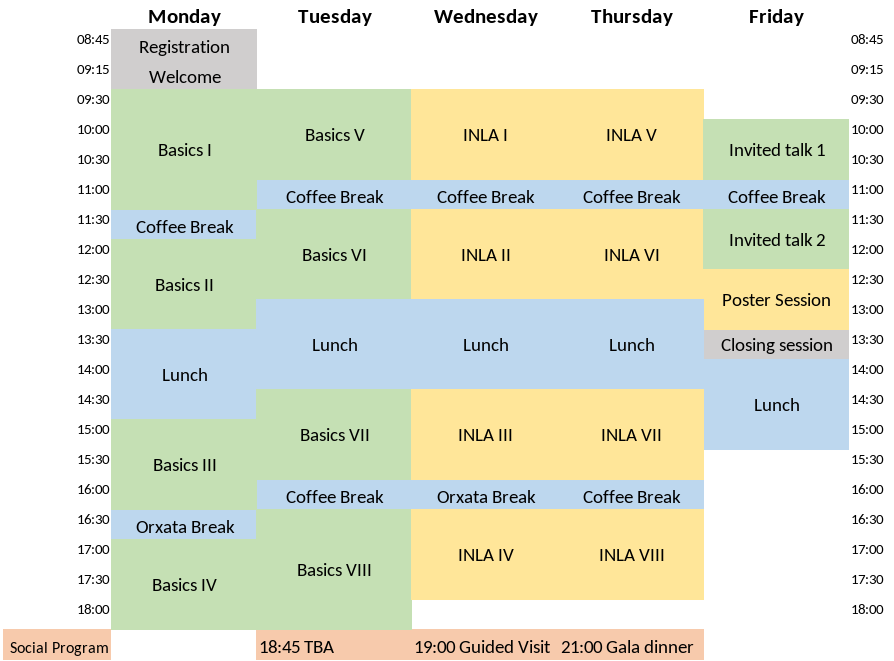
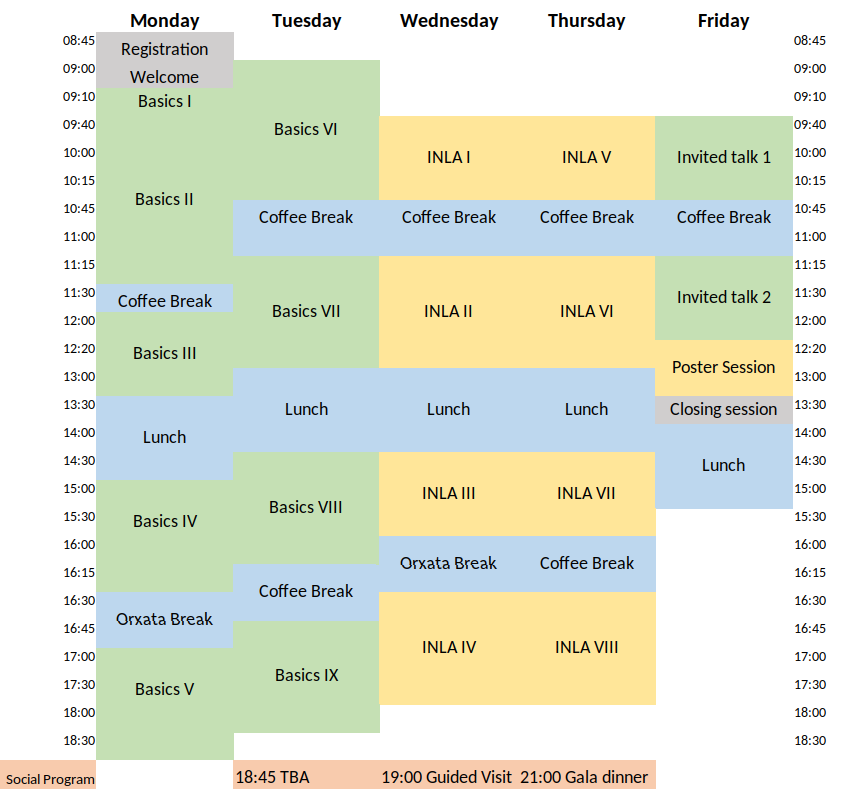
VIBASS5: Update schedule and program.

diff --git a/_posts/events/2022-01-23-vibass5/2022-01-23-vibass5.md b/_posts/events/2022-01-23-vibass5/2022-01-23-vibass5.md
@@ -86,12 +86,12 @@ València
 <!--
   Time         | Monday 18     | Tuesday 19    | Wednesday 20    | Thursday 21    | Friday 22
 -------------  | --------------| --------------| ----------------| ---------------| ---------------------
-  08:45-09:15  | Registration  |               |                 |                | 
-  09:15-09:30  | Welcome       |               |                 |                | 
-  09:30-10:00  | Basics I      | Basics V      | R-INLA          | R-INLA         |               
-  10:00-11:00  |               |               |                 |                | Invited I (PM)
+  08:45-09:00  | Registration  |               |                 |                | 
+  09:00-09:10  | Welcome       |               |                 |                | 
+  09:10-09:40  | Basics I      | Basics V      | R-INLA          | R-INLA         |               
+  09:40-10:15  |               |               |                 |                | Invited I (MEC)
   11:00-11:30  |               | Coffee Break  | Coffee Break    | Coffee Break   | Coffee Break
-  11:30-12:00  | Coffee Break  | Basics VI     | R-INLA          | R-INLA         | Invited II (DR)
+  11:30-12:00  | Coffee Break  | Basics VI     | R-INLA          | R-INLA         | Invited II (GB)
   12:00-12:30  | Basics II     |               |                 |                | Posters oral presentation
   12:30-13:00  |               |               |                 |                |                 
   13:00-13:30  |               | Lunch         | Lunch           | Lunch          |                 

diff --git a/_posts/events/2022-01-23-vibass5/2022-01-23-vibass5-intro.md b/_posts/events/2022-01-23-vibass5/2022-01-23-vibass5-intro.md
@@ -51,21 +51,22 @@ __posterior distributions__.
 
 ## Tuesday
 
-### Session I: All you need is... modelling
+### Session I: Numerical approaches.
 
 The big problem in the Bayesian framework: resolution of integrals that appear when applying the learning process.
+Gaussian approximations, Laplace approximations, Monte Carlo integration and importance sampling, Markov chain Monte Carlo.
 
 
-### Session II. Numerical approaches to the posterior distribution.
+### Session II. Bayesian linear models.
 
-__Numerical approaches__: Gaussian approximations, Laplace approximations, Monte Carlo integration and importance sampling. __Markov chain Monte Carlo__: Gibbs sampling and Metropolis Hastings. Convergence, inspection of chains,
-etc. 
+Apply basic Importance Sampling and MCMC methods via available software for fitting regression models.
 
-### Session III. Software for Bayesian Analysis
+### Session III. Bayesian generalised linear models.
 
-__Software__ for inference in Bayesian hierarchical models.
+Extending regression models to non-gaussian responses.
 
-
-### Session IV. Bayesian hierarchical models
+### Session IV. Bayesian hierarchical models.
 
 Incorporating _random_ effects: __Bayesian hierarchical models__ (BHMs), the coolest tool for modelling highly structured models. Hierarchies, hyperparameters, and hyperpriors. (Generalized) linear mixed models as basic examples of BHMs.
+__Software__ for inference in Bayesian hierarchical models.
+
